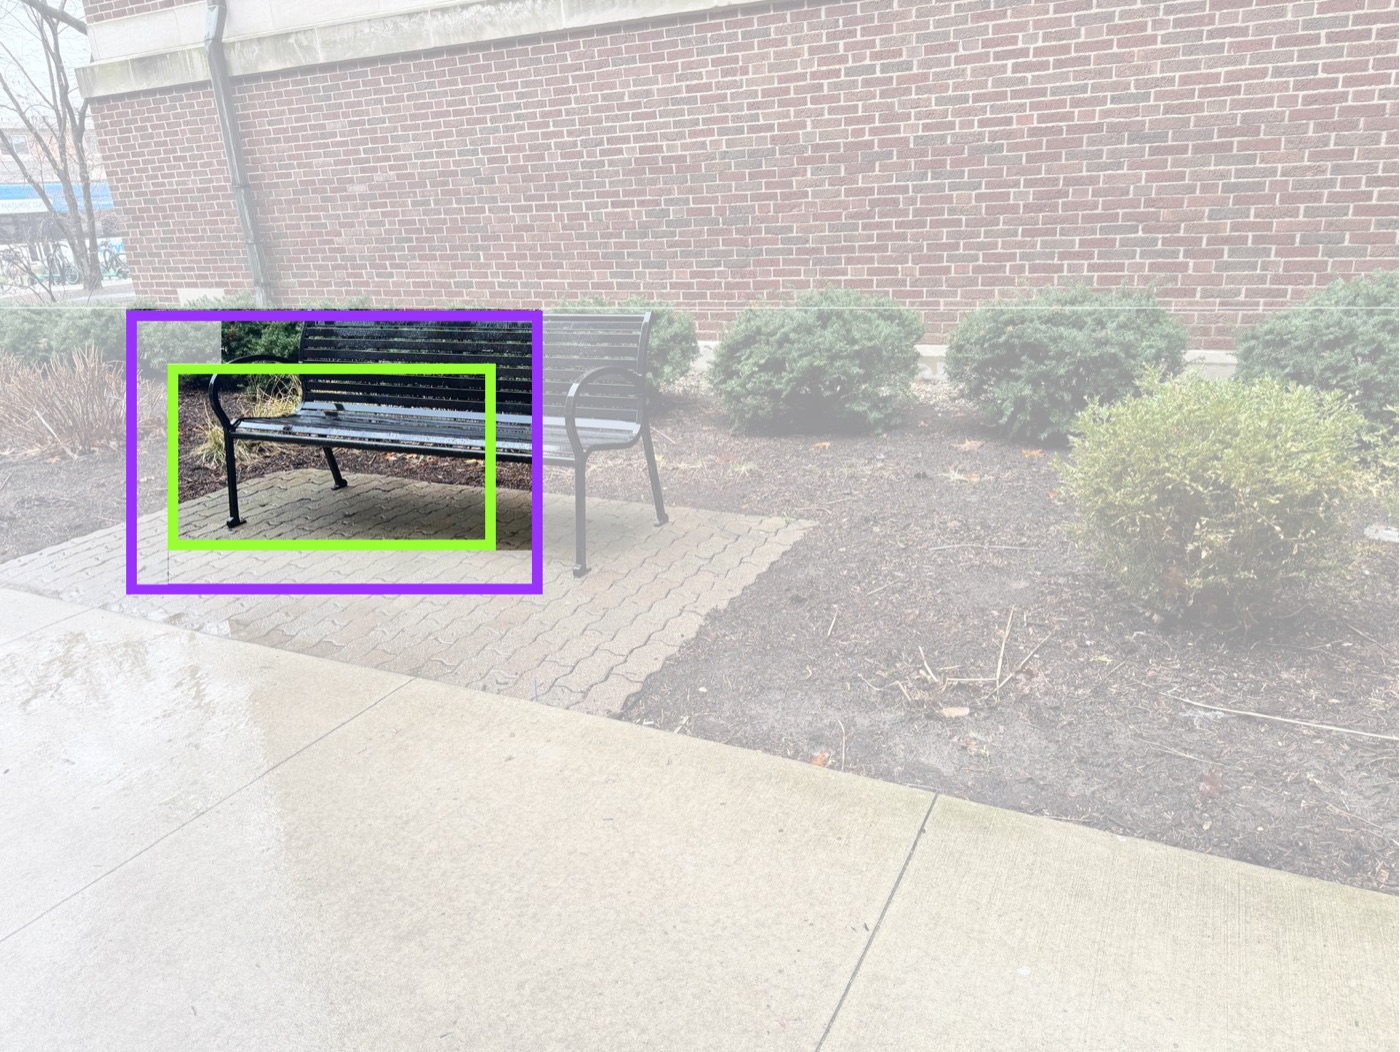
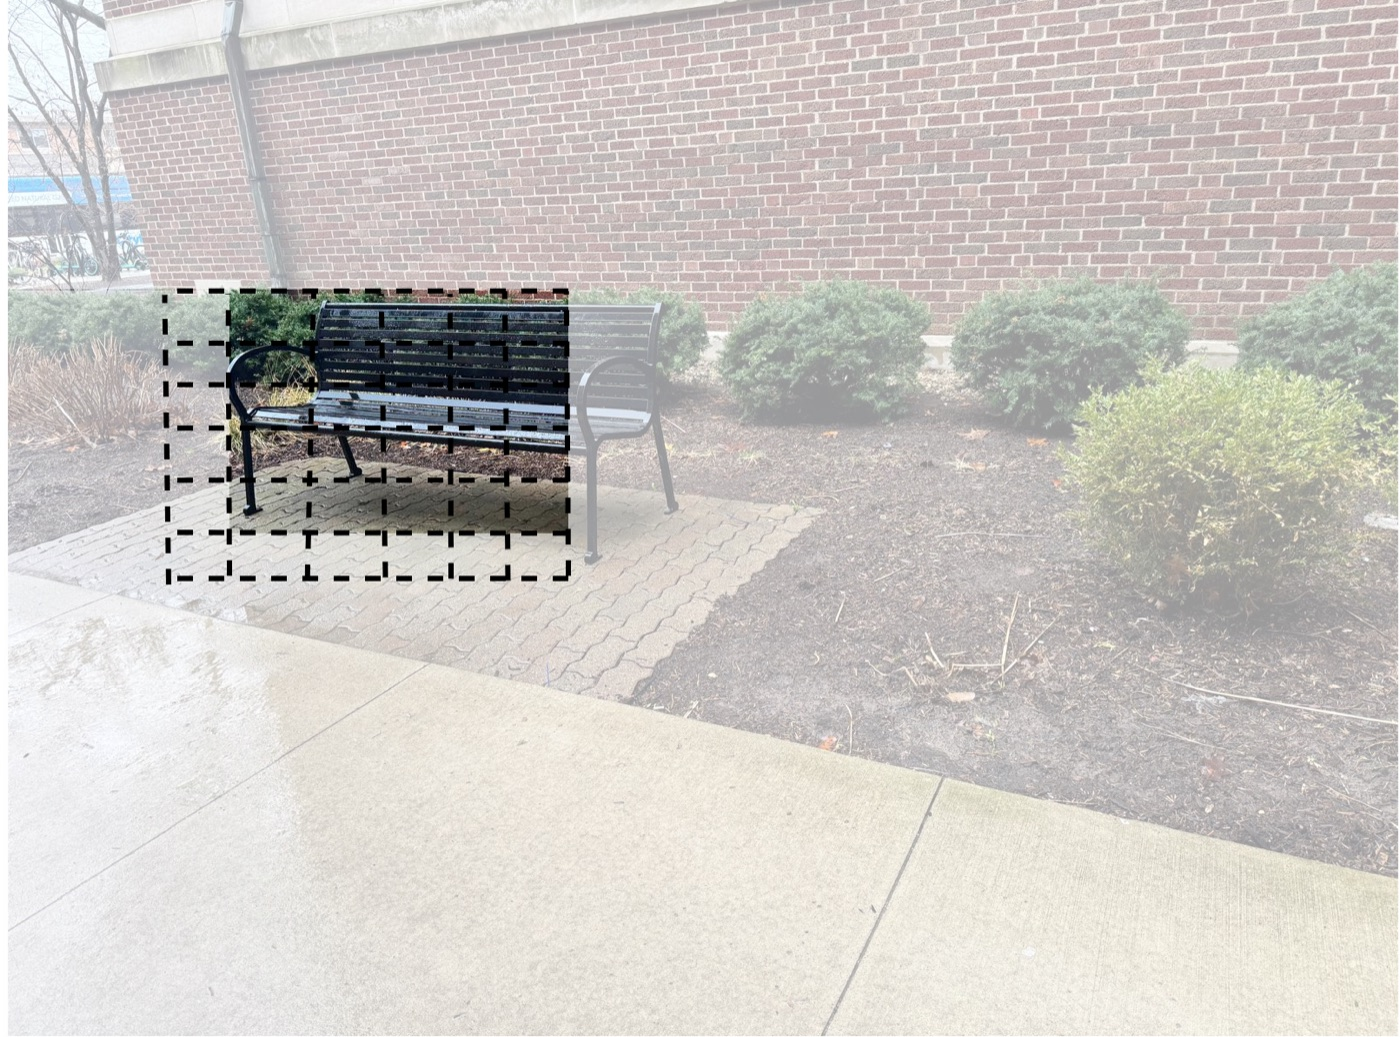
fix: refresh demo figures, correct PASCAL VOC row, link table citations
Swap all 20 compression-demo images for the professors' corrected
figures. Dropbox's numbering didn't match the site's, so images were
remapped by visual content instead of filename (their image1/image2
were the site's Shoe/Plate photos, not Dog/Bench).

Add numbered citation markers to every results-table method, using
the exact \cite keys from demo-source/main.tex, linked to the
References list so reviewers can jump straight to the source.

Fix the PASCAL VOC Cascade Mask-RCNN+ row to 720 G MACs / 185 M
Params (prior values were physically implausible for that backbone).

diff --git a/src/app/data/tables.ts b/src/app/data/tables.ts
@@ -5,6 +5,7 @@ export interface TableRow {
   params: string;
   metric: string;
   highlight?: boolean;
+  refs?: string[];
 }
 
 export interface TableSection {
@@ -30,31 +31,31 @@ export const TABLES: ResultTable[] = [
       {
         heading: 'Accurate Bounding Boxes (IoU > 0.75)',
         rows: [
-          { method: 'Co-DETR', macs: '88.1 G', params: '41.48 M', metric: '67' },
-          { method: 'EfficientDet-D7', macs: '99.6 G', params: '64 M', metric: '59.9' },
-          { method: 'RetinaNet+', sub: 'ResNet50 Backbone', macs: '152.81 G', params: '34.01 M', metric: '60.3' },
-          { method: 'FCOS+', sub: 'ResNet50 Backbone', macs: '128.21 G', params: '32.27 M', metric: '39.8' },
+          { method: 'Co-DETR', macs: '88.1 G', params: '41.48 M', metric: '67', refs: ['detr', 'zong2023detrs'] },
+          { method: 'EfficientDet-D7', macs: '99.6 G', params: '64 M', metric: '59.9', refs: ['tan2020efficientdet'] },
+          { method: 'RetinaNet+', sub: 'ResNet50 Backbone', macs: '152.81 G', params: '34.01 M', metric: '60.3', refs: ['lin2017focal', 'pytorchvision_retinanet'] },
+          { method: 'FCOS+', sub: 'ResNet50 Backbone', macs: '128.21 G', params: '32.27 M', metric: '39.8', refs: ['fcos'] },
           { method: 'STRIDE', sub: '(ground truth bounding boxes)', macs: '685.18 M', params: '4.591 M', metric: '62.79', highlight: true },
         ],
       },
       {
         heading: 'Moderate Bounding Boxes (0.5 < IoU < 0.75)',
         rows: [
-          { method: 'Mask R-CNN+', sub: 'CSwin-B', macs: '526 G', params: '97 M', metric: '44.9' },
-          { method: 'FasterRCNN+', sub: 'MobileNetV3', macs: '1.08 G', params: '19.39 M', metric: '22.8' },
-          { method: 'RT-DETRv2S', macs: '30 G', params: '20 M', metric: '48.1' },
-          { method: 'RT-DETR-R18', macs: '30 G', params: '20 M', metric: '46.5' },
-          { method: 'YOLO-v8s', macs: '14.4 G', params: '11.16 M', metric: '43.2' },
+          { method: 'Mask R-CNN+', sub: 'CSwin-B', macs: '526 G', params: '97 M', metric: '44.9', refs: ['he2017mask', 'dong2022cswin'] },
+          { method: 'FasterRCNN+', sub: 'MobileNetV3', macs: '1.08 G', params: '19.39 M', metric: '22.8', refs: ['ren2015faster', 'mobilenet', 'fasterrcnn'] },
+          { method: 'RT-DETRv2S', macs: '30 G', params: '20 M', metric: '48.1', refs: ['rtdetrv2'] },
+          { method: 'RT-DETR-R18', macs: '30 G', params: '20 M', metric: '46.5', refs: ['rtdetr'] },
+          { method: 'YOLO-v8s', macs: '14.4 G', params: '11.16 M', metric: '43.2', refs: ['yolo', 'yolo_v8'] },
           { method: 'STRIDE', sub: '(20% bbox variation)', macs: '685.18 M', params: '4.591 M', metric: '57.91', highlight: true },
         ],
       },
       {
         heading: 'Inaccurate Bounding Boxes (IoU < 0.5)',
         rows: [
-          { method: 'YOLOS', macs: '7.91 G', params: '5.65 M', metric: '36.7' },
-          { method: 'YOLO-v12n', macs: '3.25 G', params: '2.6 M', metric: '40.59' },
-          { method: 'EfficientDet-D0', macs: '3.6 G', params: '4.1 M', metric: '34.3' },
-          { method: 'SSD+', sub: 'MobileNetV3', macs: '662 M', params: '3.4 M', metric: '25.1' },
+          { method: 'YOLOS', macs: '7.91 G', params: '5.65 M', metric: '36.7', refs: ['YOLOS', 'yolos_tiny'] },
+          { method: 'YOLO-v12n', macs: '3.25 G', params: '2.6 M', metric: '40.59', refs: ['yolo12'] },
+          { method: 'EfficientDet-D0', macs: '3.6 G', params: '4.1 M', metric: '34.3', refs: ['tan2020efficientdet'] },
+          { method: 'SSD+', sub: 'MobileNetV3', macs: '662 M', params: '3.4 M', metric: '25.1', refs: ['liu2016ssd', 'mobilenet', 'torchvision_ssd'] },
           { method: 'SSD + STRIDE', macs: '685.18 M', params: '4.591 M', metric: '40.62', highlight: true },
         ],
       },
@@ -69,21 +70,21 @@ export const TABLES: ResultTable[] = [
       {
         heading: 'Accurate Bounding Boxes (IoU > 0.75)',
         rows: [
-          { method: 'Cascade Mask-RCNN+', sub: 'EfficientNet-B7+NAS-FPN', macs: '686 M', params: '7.7 M', metric: '89' },
+          { method: 'Cascade Mask-RCNN+', sub: 'EfficientNet-B7+NAS-FPN', macs: '720 G', params: '185 M', metric: '89', refs: ['tan2019efficientnet', 'ghiasi2021simple'] },
           { method: 'STRIDE', macs: '685.18 M', params: '4.591 M', metric: '93.49', highlight: true },
         ],
       },
       {
         heading: 'Moderate Bounding Boxes (0.5 < IoU < 0.75)',
         rows: [
-          { method: 'FasterRCNN+', sub: 'ResNet-101', macs: '191.88 G', params: '184.68 M', metric: '74.2' },
+          { method: 'FasterRCNN+', sub: 'ResNet-101', macs: '191.88 G', params: '184.68 M', metric: '74.2', refs: ['ren2015faster', 'voc_faster_rcnn'] },
           { method: 'STRIDE', sub: '(20% bbox var.)', macs: '685.18 M', params: '4.591 M', metric: '89.3', highlight: true },
         ],
       },
       {
         heading: 'Inaccurate Bounding Boxes (IoU < 0.5)',
         rows: [
-          { method: 'SSD + MobileNetv3', sub: '(Finetuned)', macs: '662 M', params: '3.4 M', metric: '30.7' },
+          { method: 'SSD + MobileNetv3', sub: '(Finetuned)', macs: '662 M', params: '3.4 M', metric: '30.7', refs: ['liu2016ssd', 'mobilenet'] },
           { method: 'SSD + STRIDE', sub: '(Finetuned)', macs: '685.18 M', params: '4.591 M', metric: '56.2', highlight: true },
         ],
       },
@@ -98,22 +99,22 @@ export const TABLES: ResultTable[] = [
       {
         heading: '',
         rows: [
-          { method: 'ViT', macs: '1693 G', params: '86 M', metric: '84.8%' },
-          { method: 'LGViT', macs: '10.65 G', params: '101 M', metric: '80.3%' },
-          { method: 'AdaptFormer', macs: '1.71 G', params: '87.6 M', metric: '82.6%' },
-          { method: 'EfficientViT', macs: '2.1 G', params: '24 M', metric: '82.7%' },
-          { method: 'EfficientViT-L2', macs: '20 G', params: '64 M', metric: '83.5%' },
-          { method: 'ConvNeXt-T', macs: '4.5 G', params: '27.80 M', metric: '82.1%' },
-          { method: 'MNv4-Conv-S', macs: '0.2 G', params: '3.4 M', metric: '73.8%' },
-          { method: 'MNv4-Hybrid-L', macs: '7.2 G', params: '11.4 M', metric: '83.4%' },
-          { method: 'PVT-Tiny', macs: '1.9 G', params: '12.84 M', metric: '75.1%' },
-          { method: 'MobileViT-v2', macs: '2.0 G', params: '10.6 M', metric: '80.4%' },
-          { method: 'EfficientFormer-L1', macs: '1.42 G', params: '11.39 M', metric: '80.2%' },
-          { method: 'EfficientFormer_v2-L1', macs: '2.56 G', params: '26.1 M', metric: '83.3%' },
-          { method: 'T2T-ViT-14', macs: '4.8 G', params: '21.5 M', metric: '80.5%' },
-          { method: 'CSwin-T', macs: '4.3 G', params: '23 M', metric: '82.7%' },
-          { method: 'YOLO-v11', macs: '2.5 G', params: '10.4 M', metric: '77.3%' },
-          { method: 'GMorph', macs: '11.31 G', params: '133.05 M', metric: '71.7%' },
+          { method: 'ViT', macs: '1693 G', params: '86 M', metric: '84.8%', refs: ['dosovitskiy2020image', 'steiner2021augreg'] },
+          { method: 'LGViT', macs: '10.65 G', params: '101 M', metric: '80.3%', refs: ['xu2023lgvit'] },
+          { method: 'AdaptFormer', macs: '1.71 G', params: '87.6 M', metric: '82.6%', refs: ['chen2022adaptformer'] },
+          { method: 'EfficientViT', macs: '2.1 G', params: '24 M', metric: '82.7%', refs: ['cai2023efficientvit', 'efficientvit-b2-cls-huggingface'] },
+          { method: 'EfficientViT-L2', macs: '20 G', params: '64 M', metric: '83.5%', refs: ['cai2023efficientvit', 'efficientvit-l2-cls-huggingface'] },
+          { method: 'ConvNeXt-T', macs: '4.5 G', params: '27.80 M', metric: '82.1%', refs: ['liu2022convnet'] },
+          { method: 'MNv4-Conv-S', macs: '0.2 G', params: '3.4 M', metric: '73.8%', refs: ['qin2404mobilenetv4'] },
+          { method: 'MNv4-Hybrid-L', macs: '7.2 G', params: '11.4 M', metric: '83.4%', refs: ['qin2404mobilenetv4'] },
+          { method: 'PVT-Tiny', macs: '1.9 G', params: '12.84 M', metric: '75.1%', refs: ['wang2021pyramid', 'huggingface_pvt_docs'] },
+          { method: 'MobileViT-v2', macs: '2.0 G', params: '10.6 M', metric: '80.4%', refs: ['mehta2023separable'] },
+          { method: 'EfficientFormer-L1', macs: '1.42 G', params: '11.39 M', metric: '80.2%', refs: ['li2022efficientformer'] },
+          { method: 'EfficientFormer_v2-L1', macs: '2.56 G', params: '26.1 M', metric: '83.3%', refs: ['efficientformerv2'] },
+          { method: 'T2T-ViT-14', macs: '4.8 G', params: '21.5 M', metric: '80.5%', refs: ['yuan2021tokens'] },
+          { method: 'CSwin-T', macs: '4.3 G', params: '23 M', metric: '82.7%', refs: ['dong2022cswin'] },
+          { method: 'YOLO-v11', macs: '2.5 G', params: '10.4 M', metric: '77.3%', refs: ['yolo11'] },
+          { method: 'GMorph', macs: '11.31 G', params: '133.05 M', metric: '71.7%', refs: ['yang2024gmorph'] },
           { method: 'STRIDE', macs: '1.25 G', params: '5.7 M', metric: '83.59%', highlight: true },
         ],
       },
@@ -128,10 +129,10 @@ export const TABLES: ResultTable[] = [
       {
         heading: '',
         rows: [
-          { method: 'ViT', macs: '1693 G', params: '86 M', metric: '95.29%' },
-          { method: 'LGViT', macs: '10.65 G', params: '101 M', metric: '92.5%' },
-          { method: 'AdaptFormer', macs: '1.71 G', params: '87.6 M', metric: '93.36%' },
-          { method: 'EfficientViT', sub: '(finetuned)', macs: '2.1 G', params: '24 M', metric: '93.27%' },
+          { method: 'ViT', macs: '1693 G', params: '86 M', metric: '95.29%', refs: ['dosovitskiy2020image', 'cifar10Hugging'] },
+          { method: 'LGViT', macs: '10.65 G', params: '101 M', metric: '92.5%', refs: ['xu2023lgvit'] },
+          { method: 'AdaptFormer', macs: '1.71 G', params: '87.6 M', metric: '93.36%', refs: ['chen2022adaptformer'] },
+          { method: 'EfficientViT', sub: '(finetuned)', macs: '2.1 G', params: '24 M', metric: '93.27%', refs: ['cai2023efficientvit', 'efficientvit_b2_huggingface'] },
           { method: 'STRIDE', macs: '1.25 G', params: '5.75 M', metric: '93.44%', highlight: true },
         ],
       },

diff --git a/src/app/results-tables/results-tables.html b/src/app/results-tables/results-tables.html
@@ -29,6 +29,13 @@
                   <tr [class.highlight-row]="row.highlight">
                     <td>
                       {{ row.method }}
+                      @if (row.refs) {
+                        <sup class="row-refs">
+                          [@for (key of row.refs; track key; let last = $last) {
+                            <a [href]="'#ref-' + key">{{ refNumber(key) }}</a>@if (!last) {<span>,&nbsp;</span>}
+                          }]
+                        </sup>
+                      }
                       @if (row.sub) {
                         <div class="row-sub">{{ row.sub }}</div>
                       }

diff --git a/src/app/results-tables/results-tables.ts b/src/app/results-tables/results-tables.ts
@@ -1,5 +1,6 @@
 import { Component } from '@angular/core';
 import { TABLES } from '../data/tables';
+import { REFERENCES } from '../data/references';
 
 @Component({
   selector: 'app-results-tables',
@@ -9,4 +10,12 @@ import { TABLES } from '../data/tables';
 })
 export class ResultsTables {
   readonly tables = TABLES;
+
+  private readonly refNumbers: Record<string, number> = Object.fromEntries(
+    REFERENCES.map((ref, index) => [ref.key, index + 1]),
+  );
+
+  refNumber(key: string): number {
+    return this.refNumbers[key];
+  }
 }

diff --git a/src/app/results-tables/results-tables.scss b/src/app/results-tables/results-tables.scss
@@ -70,6 +70,20 @@ td {
   color: var(--color-text-soft);
 }
 
+.row-refs {
+  margin-left: 0.2em;
+  font-size: 0.72em;
+
+  a {
+    color: var(--color-accent);
+    text-decoration: none;
+
+    &:hover {
+      text-decoration: underline;
+    }
+  }
+}
+
 .section-row td {
   font-weight: 700;
   font-size: 0.78rem;

diff --git a/src/app/references/references.html b/src/app/references/references.html
@@ -7,7 +7,7 @@
 
     <ol class="refs__list">
       @for (ref of references; track ref.key) {
-        <li>
+        <li [id]="'ref-' + ref.key">
           @if (ref.author) {
             <span class="ref-author">{{ ref.author }}.</span>
           }
